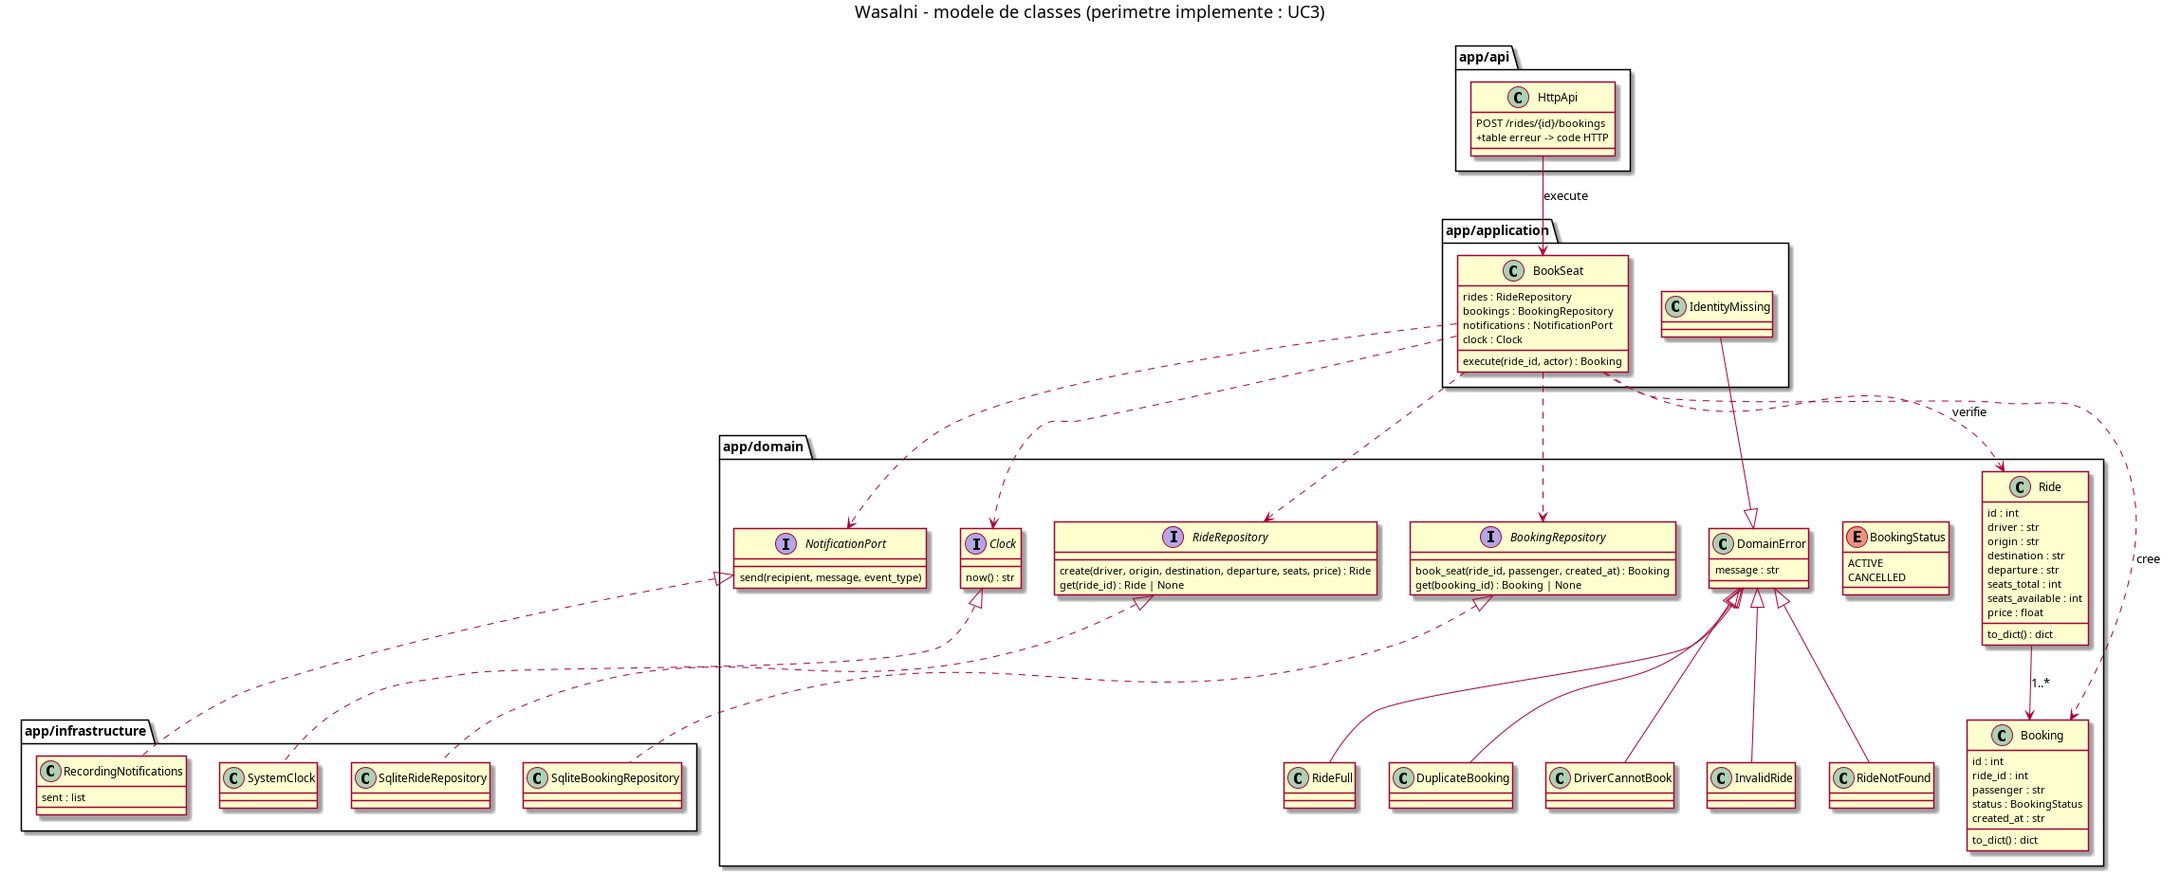
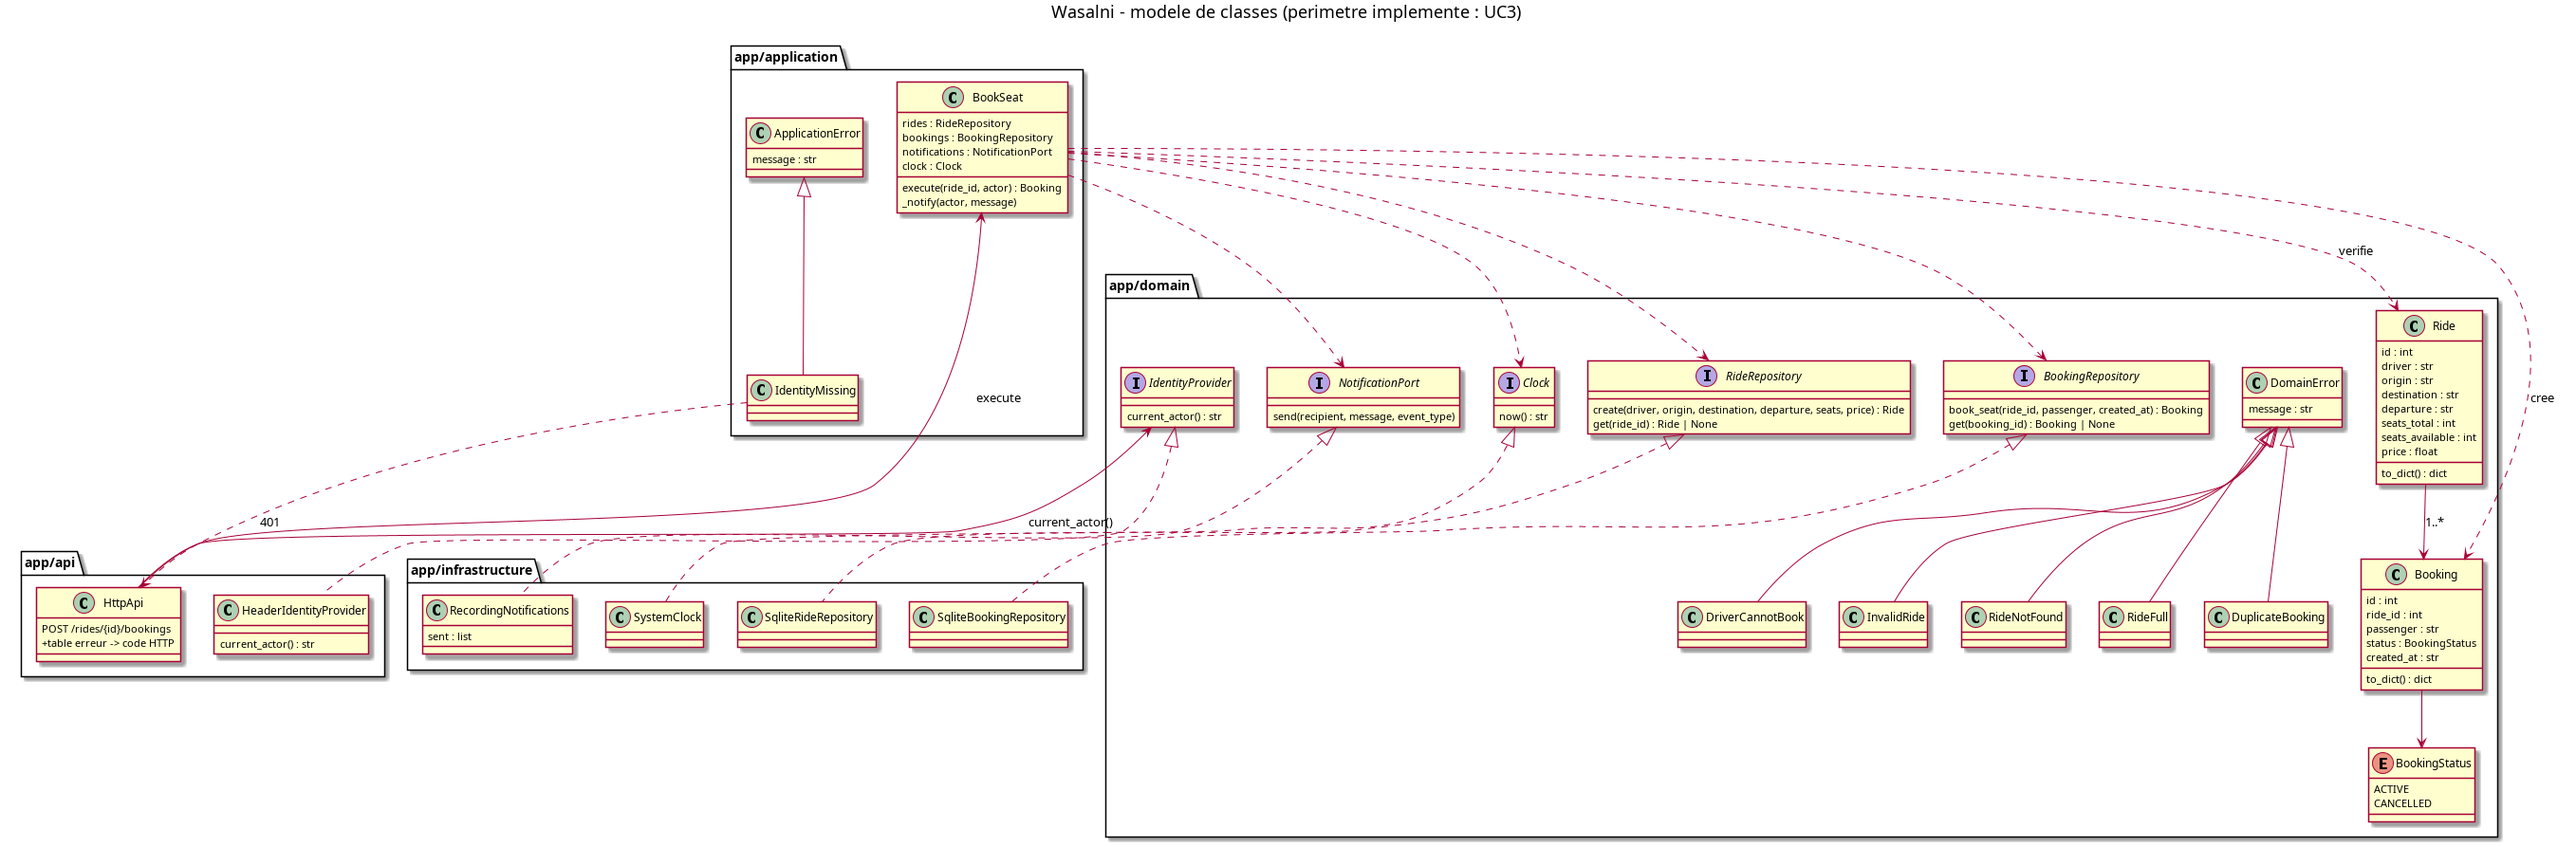
fix(arch): identity as a port, enforced best-effort notification, class model aligned
- app/domain/ports.py: IdentityProvider port; app/api/identity.py: HeaderIdentityProvider adapter
  wired through app.container, so UC13 is a port like the notification system (ADR 0002)
- app/application/book_seat.py: _notify wraps the port in try/except + log, matching the
  best-effort claim (ADR 0007); new test keeps the booking when the port raises
- docs/adr/0002 rewritten (identity port), docs/adr/0003 records "aucun flux financier",
  docs/adr/0007 added (notification au mieux)
- docs/uml/class-model.puml: ApplicationError/IdentityMissing hierarchy corrected,
  IdentityProvider + HeaderIdentityProvider added; components and sequence diagrams follow
- docs/architecture.md: ports table, UC13 row, ADR table, class model section, malformed bullet

diff --git a/app/application/book_seat.py b/app/application/book_seat.py
@@ -1,13 +1,18 @@
 """UC3 - Réserver une place.
 
 Le cas d'utilisation orchestre les ports ; la garantie de non-surréservation appartient au port
-BookingRepository (voir docs/adr/0004-concurrence-sqlite.md).
+BookingRepository (voir docs/adr/0004-concurrence-sqlite.md), la livraison au mieux au port
+NotificationPort (voir docs/adr/0007-notification-au-mieux.md).
 """
 from __future__ import annotations
+
+import logging
 
 from app.domain.errors import DriverCannotBook, RideNotFound
 from app.domain.models import Booking
 from app.domain.ports import BookingRepository, Clock, NotificationPort, RideRepository
+
+logger = logging.getLogger(__name__)
 
 
 class BookSeat:
@@ -26,9 +31,12 @@ class BookSeat:
             raise DriverCannotBook("un conducteur ne peut pas réserver sur son propre trajet")
 
         booking = self.bookings.book_seat(ride_id, actor, self.clock.now())
-        self.notifications.send(
-            actor,
-            f"Place retenue sur le trajet #{ride_id} (réservation #{booking.id})",
-            "booking.created",
-        )
+        self._notify(actor, f"Place retenue sur le trajet #{ride_id} (réservation #{booking.id})")
         return booking
+
+    def _notify(self, actor: str, message: str) -> None:
+        """Livraison au mieux : la réservation est déjà validée, un échec ne la remet pas en cause."""
+        try:
+            self.notifications.send(actor, message, "booking.created")
+        except Exception:                                   # noqa: BLE001 - port externe
+            logger.warning("notification non livrée à %s", actor, exc_info=True)

diff --git a/tests/test_booking_service_unit.py b/tests/test_booking_service_unit.py
@@ -37,6 +37,13 @@ class FixedClock:
         return "2026-01-01T00:00:00+00:00"
 
 
+class FailingNotifications:
+    """Système externe indisponible : vérifie que la livraison au mieux ne casse rien."""
+
+    def send(self, recipient, message, event_type):
+        raise RuntimeError("système de notification indisponible")
+
+
 @pytest.fixture
 def setup():
     rides = FakeRides(Ride(1, "driver1", "Tunis", "Sfax", "2030-01-15T08:00", 1, 1, 20))
@@ -75,3 +82,11 @@ def test_duplicate_booking(setup):
     service.execute(1, "ali")
     with pytest.raises(DuplicateBooking):
         service.execute(1, "ali")
+
+
+def test_notification_failure_keeps_the_booking():
+    rides = FakeRides(Ride(1, "driver1", "Tunis", "Sfax", "2030-01-15T08:00", 2, 2, 20))
+    service = BookSeat(rides, FakeBookings(rides), FailingNotifications(), FixedClock())
+    b = service.execute(1, "ali")
+    assert b.status == "ACTIVE"
+    assert rides.data[1].seats_available == 1

diff --git a/app/api/http.py b/app/api/http.py
@@ -1,7 +1,7 @@
 """Adaptateur HTTP : routage, identité, correspondance erreur -> code HTTP."""
 from __future__ import annotations
 
-from flask import Blueprint, current_app, jsonify, request
+from flask import Blueprint, current_app, jsonify
 from werkzeug.exceptions import HTTPException
 
 from app.application.errors import IdentityMissing
@@ -34,11 +34,8 @@ def http_status(error: Exception) -> int:
 
 
 def current_actor() -> str:
-    """L'identité vient du système d'authentification externe, via l'en-tête X-User (ADR 0002)."""
-    actor = request.headers.get("X-User", "").strip()
-    if not actor:
-        raise IdentityMissing("en-tête X-User absent")
-    return actor
+    """L'identité vient du système d'authentification externe, via le port IdentityProvider (ADR 0002)."""
+    return current_app.container.identity.current_actor()
 
 
 @bp.app_errorhandler(IdentityMissing)

diff --git a/app/__init__.py b/app/__init__.py
@@ -9,6 +9,7 @@ from dataclasses import dataclass
 from flask import Flask
 
 from app.api.http import bp
+from app.api.identity import HeaderIdentityProvider
 from app.application.book_seat import BookSeat
 from app.infrastructure.clock import SystemClock
 from app.infrastructure.notifications import RecordingNotifications
@@ -26,6 +27,7 @@ class Container:
     bookings: SqliteBookingRepository
     notifications: RecordingNotifications
     clock: SystemClock
+    identity: HeaderIdentityProvider
     book_seat: BookSeat
 
 
@@ -43,6 +45,7 @@ def create_app(db_path: str = "carpooling.db", notifications=None) -> Flask:
         bookings=bookings,
         notifications=notifications,
         clock=clock,
+        identity=HeaderIdentityProvider(),
         book_seat=BookSeat(rides, bookings, notifications, clock),
     )
     app.register_blueprint(bp)

diff --git a/app/api/identity.py b/app/api/identity.py
@@ -1,0 +1,18 @@
+"""Adaptateur du port IdentityProvider : l'identité arrive dans l'en-tête X-User.
+
+Le système d'authentification est externe (UC13) ; cet adaptateur ne fait que lire la preuve
+d'identité transmise par le client. Voir docs/adr/0002-identite-externe.md.
+"""
+from __future__ import annotations
+
+from flask import request
+
+from app.application.errors import IdentityMissing
+
+
+class HeaderIdentityProvider:
+    def current_actor(self) -> str:
+        actor = request.headers.get("X-User", "").strip()
+        if not actor:
+            raise IdentityMissing("en-tête X-User absent")
+        return actor

diff --git a/app/domain/ports.py b/app/domain/ports.py
@@ -47,3 +47,13 @@ class Clock(Protocol):
     def now(self) -> str:
         """Instant courant en ISO 8601 UTC."""
         ...
+
+
+@runtime_checkable
+class IdentityProvider(Protocol):
+    def current_actor(self) -> str:
+        """Identité de l'appelant, fournie par le système d'authentification externe.
+
+        Lève IdentityMissing (erreur applicative) si aucune identité n'est fournie.
+        """
+        ...

diff --git a/docs/architecture.md b/docs/architecture.md
@@ -44,7 +44,7 @@ Règles de dépendance vérifiables par lecture des imports :
 - `domain` n'importe rien de `app` hors `domain`.
 - `application` importe `domain` uniquement.
 - `infrastructure` importe `domain` (ports, entités) mais jamais `application` ni `api`.
-- `api` importe `application` (cas d'utilisation) et les erreurs du domaine) mais jamais `infrastructure`.
+- `api` importe `application` (cas d'utilisation, erreurs applicatives) et `domain` (ports, erreurs) mais jamais `infrastructure`.
 
 ## 4. Vue des composants
 
@@ -55,6 +55,9 @@ Source : [uml/architecture-components.puml](uml/architecture-components.puml).
 Chaîne nominale d'UC3 : `HttpApi` (adaptateur) → `BookSeat` (application) → ports `RideRepository`,
 `BookingRepository`, `NotificationPort` → adaptateurs SQLite / notification.
 
+Identité : `HttpApi` → port `IdentityProvider` → `HeaderIdentityProvider` (lit `X-User`). L'identité traverse le port,
+pas le routeur (ADR 0002).
+
 ## 5. Ports et adaptateurs
 
 | Port (déclaré dans `domain/ports.py`) | Contrat | Adaptateur retenu |
@@ -63,12 +66,14 @@ Chaîne nominale d'UC3 : `HttpApi` (adaptateur) → `BookSeat` (application) →
 | `BookingRepository` | `book_seat(ride_id, passenger, created_at) -> Booking` (atomique), `get(id) -> Booking \| None` | `infrastructure/sqlite/booking_repository.py` |
 | `NotificationPort` | `send(destinataire, message, type_evenement)` sans exception remontée | `infrastructure/notifications.py` (enregistreur, système externe simulé) |
 | `Clock` | `now() -> str` (ISO 8601 UTC) | `infrastructure/clock.py` |
+| `IdentityProvider` | `current_actor() -> str`, lève `IdentityMissing` si l'identité manque | `api/identity.py` (`HeaderIdentityProvider`, lit `X-User`) |
 
 - **`Clock` existe** parce que UC5 aura besoin de comparer l'instant courant à `départ - X` et parce que les tests
   doivent pouvoir fixer le temps sans toucher au domaine.
-- **L'identité n'est pas un port** : `X-User` est un détail de transport, extrait par l'adaptateur HTTP qui le passe
-  explicitement en argument (`actor`) au cas d'utilisation. Aucun objet « utilisateur courant » ne circule dans l'application.
-- Un port n'est ajouté que s'il a **deux implémentations réelles** (production + test) ou un système externe derrière.
+- **`IdentityProvider` existe** parce que l'authentification est un système externe (UC13) : il évite que la frontière
+  applicative dépendre d'un en-tête. Le contrat reçoit et rend des chaînes, jamais des objets de transport.
+- Un port n'est ajouté que s'il a un **système externe derrière lui** (notification, authentification) ou **deux
+  implémentations réelles** (dépôts : SQLite et factices de test). Sinon c'est une abstraction spéculative.
 
 ## 6. Modèle de données
 
@@ -100,6 +105,15 @@ Invariants portés par le schéma ou par le domaine :
 - Une réservation n'existe que pour un trajet existant : clé étrangère activée (`PRAGMA foreign_keys = ON`).
 - Le domaine refuse une réservation sur son propre trajet (`DriverCannotBook`).
 
+### Modèle de classes (périmètre implémenté)
+
+![Modèle de classes](uml/class-model.png)
+
+Source : [uml/class-model.puml](uml/class-model.puml). Le diagramme décrit le **code livré** : entités et statut de
+réservation, deux hiérarchies d'erreurs séparées (`DomainError` pour le métier, `ApplicationError` pour l'application),
+ports et leurs adaptateurs, et usage de `BookSeat`. Il se maintient avec le code : un diagramme qui diverge de
+l'implémentation est un défaut, pas une illustration.
+
 ## 7. Concurrence et transactions
 
 Le risque technique du projet est la course sur la dernière place. Il est traité **en un seul endroit** :
@@ -124,7 +138,7 @@ responsabilité de l'adaptateur (`api/http.py`) :
 
 | Erreur | Origine | Code HTTP |
 |---|---|---|
-| `IdentityMissing` | application (identité absente) | 401 |
+| `IdentityMissing` | application, levée par l'adaptateur du port `IdentityProvider` | 401 |
 | `RideNotFound` | domaine | 404 |
 | `RideFull` | domaine | 409 |
 | `DuplicateBooking` | domaine (index unique) | 409 |
@@ -149,7 +163,7 @@ Le corps de réponse est `{"error": "<message>"}` — contrat conservé depuis U
 | UC10 | `ListMyRides` | `RideRepository`, `BookingRepository` |
 | UC11 | `CompleteRide` | `RideRepository`, `NotificationPort` |
 | UC12 | — (port utilisé par les autres UC) | `NotificationPort` |
-| UC13 | — (adaptateur HTTP) | — |
+| UC13 | — (port utilisé par la frontière HTTP) | `IdentityProvider` |
 
 ## 10. Écart avec l'implémentation actuelle
 
@@ -173,16 +187,18 @@ l'`UPDATE` conditionnel sous `BEGIN IMMEDIATE`, l'index unique partiel, le coupl
 | ADR | Décision |
 |---|---|
 | [0001](adr/0001-couches-et-ports.md) | Quatre couches, dépendances vers l'intérieur, ports déclarés par le domaine |
-| [0002](adr/0002-identite-externe.md) | Identité fournie par un système externe, transportée par `X-User`, extraite à la frontière |
+| [0002](adr/0002-identite-externe.md) | Identité fournie par un système externe, derrière le port `IdentityProvider` |
 | [0003](adr/0003-reservation-deux-etats.md) | Réservation à deux états, `ACTIVE` ou `CANCELLED`, sans étape de confirmation |
 | [0004](adr/0004-concurrence-sqlite.md) | Concurrence traitée par `BEGIN IMMEDIATE` + `UPDATE` conditionnel + index unique partiel |
 | [0005](adr/0005-persistance-sqlite.md) | SQLite sans ORM, DDL au démarrage, connexion par opération |
 | [0006](adr/0006-modele-erreurs.md) | Erreurs de domaine sans HTTP, correspondance dans l'adaptateur |
+| [0007](adr/0007-notification-au-mieux.md) | Notification au mieux, encadrée, sans remise en cause de la réservation |
 
 ## 12. Limites connues et points ouverts
 
 - **Pas d'authentification applicative** : `X-User` est cru sur parole (décision du sujet, voir ADR 0002).
-- **Notification au mieux** : un échec du système externe est journalisé, jamais propagé (ADR 0003 / UC12).
+- **Notification au mieux** : un échec du système externe est journalisé, jamais propagé (ADR 0007 / UC12) ;
+  vérifié par `test_notification_failure_keeps_the_booking`.
 - **SQLite mono-fichier** : une instance par déploiement ; pas de réplication (ADR 0005).
 - **Read models** : UC10 (voir mes trajets) lira probablement avec des requêtes dédiées plutôt que les dépôts d'écriture ;
   à trancher à l'itération 3.

diff --git a/docs/adr/0002-identite-externe.md b/docs/adr/0002-identite-externe.md
@@ -1,4 +1,4 @@
-# ADR 0002 - Identité fournie par un système externe
+# ADR 0002 - Identité fournie par un système externe, derrière un port
 
 - **Statut :** accepté
 - **Date :** 2026-11-24
@@ -8,25 +8,30 @@
 UC13 (s'authentifier) est délégué à un système d'authentification externe : le système ne stocke aucun mot de passe et
 n'émet aucun jeton. Chaque appel arrive avec l'en-tête `X-User`, renseigné par le client.
 
+L'identité est donc un acteur secondaire externe, au même titre que la notification : elle doit apparaître comme un port
+dans l'architecture, sinon la frontière applicative dépend directement d'un détail de transport.
+
 ## Décision
 
-- `X-User` est l'identité de confiance du système.
-- L'extraction de l'en-tête est la responsabilité de l'adaptateur HTTP (`app/api/http.py`), qui la transmet au cas
-  d'utilisation sous forme d'argument `actor`.
-- **Aucun port d'identité** n'est créé : il n'y aurait qu'une implémentation, et le domaine n'a pas besoin de connaître
-  la notion d'utilisateur courant.
-- En-tête absent ou vide ⇒ `IdentityMissing` ⇒ `401`.
+- **L'identité est un port** : `IdentityProvider.current_actor() -> str`, déclaré dans `app/domain/ports.py`.
+- Son adaptateur vit à la frontière HTTP : `app/api/identity.py`, classe `HeaderIdentityProvider`, qui lit `X-User`
+  et lève `IdentityMissing` si l'en-tête est absent ou vide.
+- L'adaptateur HTTP obtient l'identité par le port puis la passe **explicitement** au cas d'utilisation (`actor`).
+  Aucun objet « utilisateur courant » ne circule dans l'application, et les cas d'utilisation restent testables avec une
+  simple chaîne.
+- Aucune authentification applicative : le système ne vérifie pas la preuve, il transporte une identité de confiance.
 
 ## Conséquences
 
-- **Positif :** aucun état de session, aucun secret stocké, tests triviaux ; le domaine reçoit une chaîne et la traite
-  comme un identifiant opaque.
-- **Négatif :** n'importe quel client connaissant un identifiant peut agir en son nom. C'est une hypothèse du sujet, pas
-  un oubli ; elle est notée dans les limites connues de [architecture.md](../architecture.md).
-- **Si l'hypothèse change** (jeton signé à vérifier), un port `IdentityProvider` devient justifié : l'application
-  vérifierait la preuve au lieu de recevoir un `actor` nu.
+- **Positif :** la couche `api` dépend d'un contrat du domaine et non d'un en-tête ; remplacer le transport (jeton signé,
+  en-tête différent, passerelle amont) ne touche qu'un adaptateur ; `401` est produit à un seul endroit.
+- **Négatif :** un port pour un seul adaptateur de production (la justification est ici le **système externe** derrière
+  le port, pas le nombre d'implémentations) ; une indirection de plus à lire.
+- **Limite assumée :** n'importe quel client connaissant un identifiant peut agir en son nom. C'est une hypothèse du
+  sujet, pas un oubli ; elle est reprise dans les limites connues de [architecture.md](../architecture.md).
 
 ## Alternatives écartées
 
-- **Authentification interne** (mot de passe, session) : réintroduit un UC explicitement retiré du périmètre.
-- **Port d'identité** : dépendance inversée sans second implémenteur — abstraction spéculative.
+- **Lire `X-User` directement dans le routeur** (sans port) : couple la frontière à un détail de transport et duplique la
+  règle du `401` à chaque nouvelle route.
+- **Authentification interne** (mot de passe, session) : réintroduit un cas d'utilisation explicitement retiré du périmètre.

diff --git a/docs/adr/0007-notification-au-mieux.md b/docs/adr/0007-notification-au-mieux.md
@@ -1,0 +1,35 @@
+# ADR 0007 - Notification au mieux, sans remise en cause de la réservation
+
+- **Statut :** accepté
+- **Date :** 2026-11-24
+
+## Contexte
+
+Le système de notification est un acteur secondaire externe (UC12). Il peut être indisponible, lent, ou refuser un
+message. Or une réservation est déjà validée en base au moment où la notification part : si l'échec remontait, l'appelant
+verrait une erreur alors que la place est réellement retenue, et rejouer la requête donnerait un doublon.
+
+## Décision
+
+- Le port `NotificationPort.send(destinataire, message, type_evenement)` est de type **au mieux** : il ne propage
+  aucune exception.
+- L'appel est encadré dans `BookSeat._notify` : `try/except Exception` + `logger.warning(...)`. Une notification non
+  livrée est donc visible dans les journaux, sans effet sur la transaction déjà validée.
+- Aucune file d'attente, aucune nouvelle tentative automatique, aucun stockage du message : le contenu n'est pas conservé.
+- L'ordre est toujours « commit, puis notification » ; jamais l'inverse.
+
+## Conséquences
+
+- **Positif :** un incident du système externe ne dégrade ni la réservation ni le code HTTP ; le comportement est
+  vérifiable en test (`test_notification_failure_keeps_the_booking` : un port qui lève laisse la réservation `ACTIVE`
+  et la place décrémentée).
+- **Négatif :** un message peut être perdu sans trace au-delà du journal applicatif ; aucune garantie de livraison.
+- **Point d'extension :** si UC12 devait devenir fiable, la décision à prendre est une file persistante (outbox),
+  pas un `try/except` plus large.
+
+## Alternatives écartées
+
+- **Propager l'échec (transaction distribuée)** : la réservation serait validée côté base mais renvoyée en erreur,
+  et un nouvel essai créerait un doublon.
+- **Nouvelle tentative immédiate dans le cas d'utilisation** : allonge la requête HTTP et ne corrige pas une panne réelle.
+- **Écrire un enregistrement « à notifier » en base** : introduit une table d'outbox pour un acteur simulé.

diff --git a/docs/adr/0003-reservation-deux-etats.md b/docs/adr/0003-reservation-deux-etats.md
@@ -11,6 +11,8 @@ passager différent du conducteur).
 
 ## Décision
 
+- **Aucun flux financier dans le périmètre** : aucune transaction, aucun remboursement, aucun service de facturation,
+  et aucune donnée de nature à porter un règlement. Conducteur et passager s'arrangent hors plateforme.
 - Une réservation a exactement deux états : `ACTIVE` (place retenue) et `CANCELLED` (place libérée). Aucun état
   intermédiaire, aucune transition en attente.
 - `rides.price` est un **attribut descriptif** du trajet, jamais le support d'une transaction.
@@ -22,10 +24,13 @@ passager différent du conducteur).
 - **Positif :** un seul chemin d'état, donc des transitions faciles à tester et à lire ; une réservation est valide dès
   sa création, sans dépendance à un système externe ; aucune tâche de rattrapage si un partenaire externe est indisponible.
 - **Négatif :** aucun contrôle différé n'est possible ; toute règle doit être évaluée au moment de la réservation.
+  L'absence de flux financier retire toute garantie de solvabilité : elle est assumée par l'équipe.
 - **Effet sur le modèle :** l'index unique partiel `(ride_id, passenger) WHERE status = 'ACTIVE'` porte directement la
   règle « une réservation active par passager et par trajet » (ADR 0004).
 
 ## Alternatives écartées
 
+- **Service de facturation externe** : ajouterait un acteur secondaire, une intégration et un moyen de remboursement,
+  pour un système dont le sujet se limite au covoiturage.
 - **État d'attente jusqu'à une validation externe** : le périmètre ne contient aucune validation externe.
 - **Réservation confirmée seulement après une action du conducteur** : contredit UC3, où la place est retenue immédiatement.
